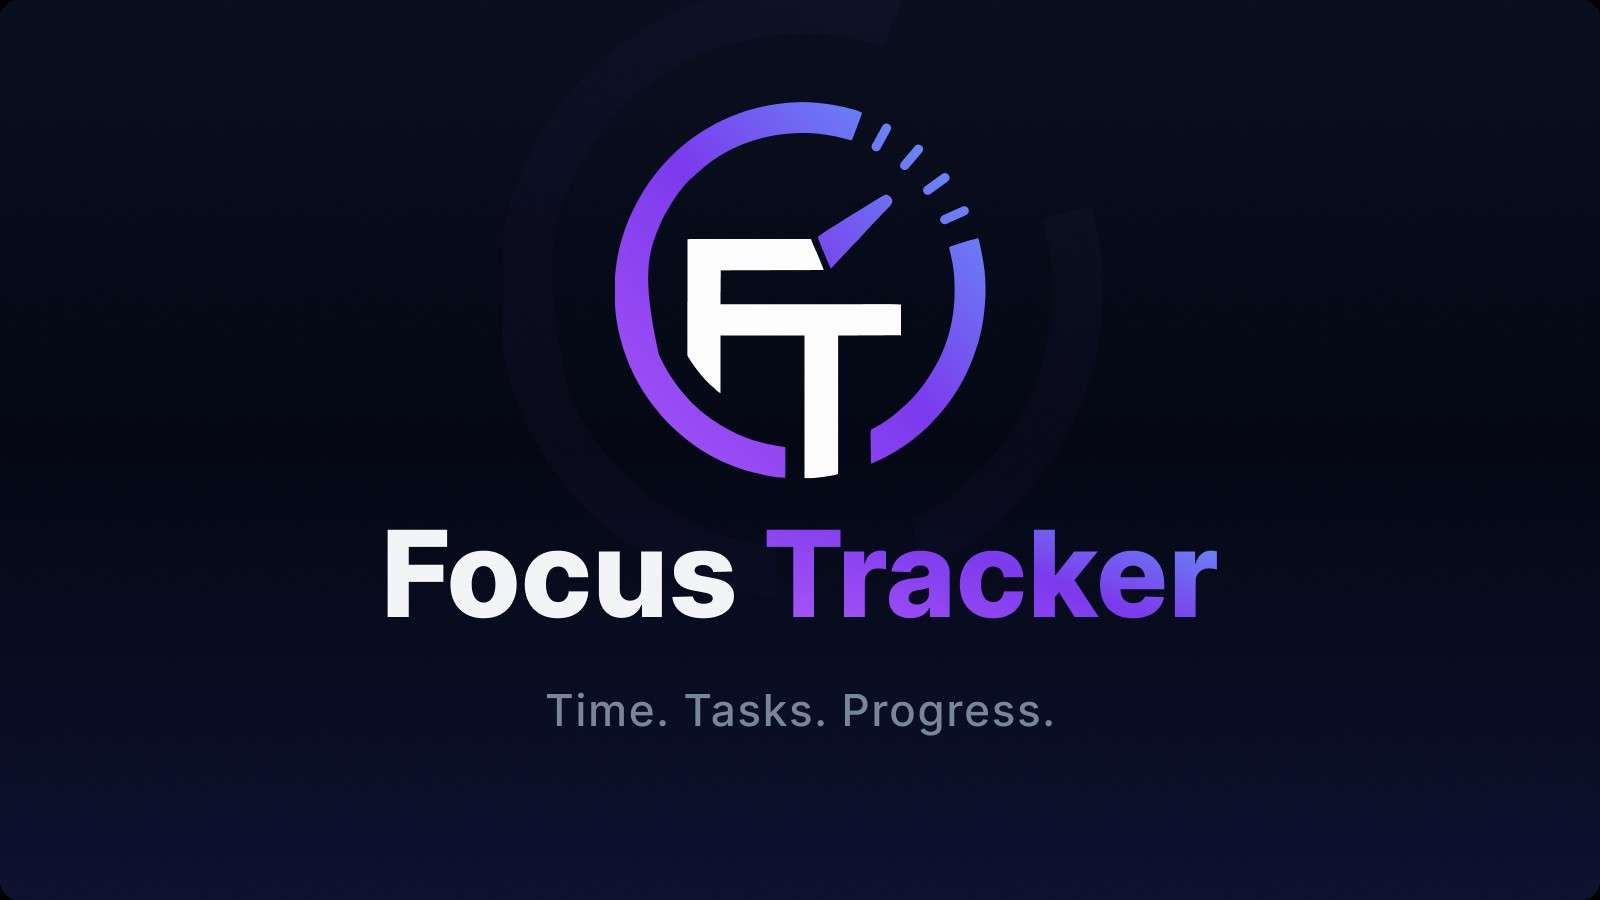
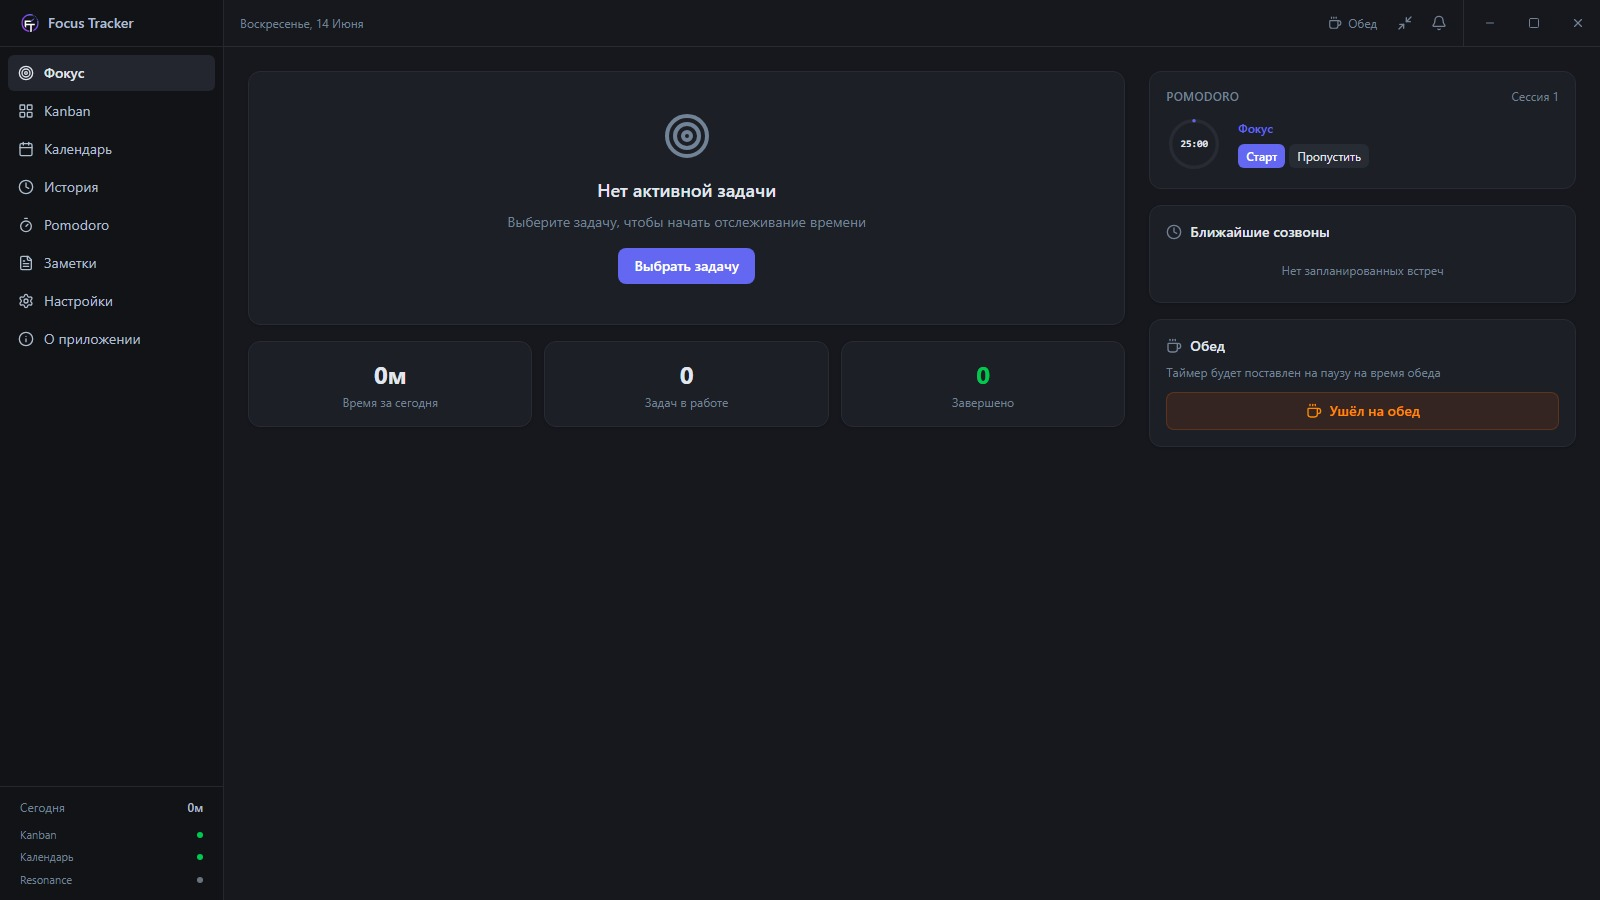
Auto-update latest fix

diff --git a/renderer/src/content/site.ts b/renderer/src/content/site.ts
@@ -1,4 +1,4 @@
-export const CURRENT_VERSION = "1.0.2";
+export const CURRENT_VERSION = "1.0.3";
 
 export const GITHUB_URL = "https://github.com/tatarinovi/Focus-Tracker";
 export const RELEASES_URL = "https://github.com/tatarinovi/Focus-Tracker/releases";
@@ -70,11 +70,18 @@ export const TECH_STACK = [
 
 export const CHANGELOG = [
   {
+    version: "1.0.3",
+    date: "2026-06-14",
+    changes: [
+      "Исправлены URL-ы файлов в манифесте автообновлений (точки вместо пробелов)",
+      "Добавлено логирование автообновлений в файл",
+    ],
+  },
+  {
     version: "1.0.2",
     date: "2026-06-14",
     changes: [
       "Исправлена совместимость ключей платформ в манифесте автообновлений",
-      "Добавлено логирование для диагностики автообновлений",
       "Изменён брендинг приложения",
     ],
   },

diff --git a/renderer/public/splash.html b/renderer/public/splash.html
@@ -47,9 +47,8 @@
       .logo {
         width: 48px;
         height: 48px;
-        border-radius: 12px;
         display: block;
-        box-shadow: 0 18px 48px rgba(91, 124, 250, 0.28);
+        filter: drop-shadow(0 18px 38px rgba(91, 124, 250, 0.28));
       }
 
       h1 {
@@ -133,7 +132,7 @@
   <body>
     <main class="shell">
       <section class="brand">
-        <img class="logo" src="logo-square-dark.svg" alt="" />
+        <img class="logo" src="logo-mark.svg" alt="" />
         <div>
           <h1>Focus Tracker</h1>
           <div class="subtitle">Готовим приложение к запуску</div>

diff --git a/renderer/src/App.tsx b/renderer/src/App.tsx
@@ -11,7 +11,7 @@ import { useState, useEffect, useCallback } from "react";
 const isTauri = typeof window !== 'undefined' && !!window.tauriRuntime?.isTauri;
 const drag = { WebkitAppRegion: 'drag' } as React.CSSProperties;
 const noDrag = { WebkitAppRegion: 'no-drag' } as React.CSSProperties;
-const appLogoSrc = "/logo-square-dark.svg";
+const appLogoSrc = "/logo-mark.svg";
 
 function useWindowMaximized() {
   const [isMaximized, setIsMaximized] = useState(false);
@@ -289,7 +289,7 @@ function Sidebar({ isNarrow, isOpen, onClose }: { isNarrow: boolean; isOpen: boo
       <div className="h-[47px] px-3 border-b border-sidebar-border flex items-center">
         <div className="flex items-center justify-between px-2 w-full">
           <div className="flex items-center gap-2">
-            <img src={appLogoSrc} alt="" className="w-5 h-5 rounded-[5px] flex-shrink-0" />
+            <img src={appLogoSrc} alt="" className="w-5 h-5 flex-shrink-0" />
             <span className="font-semibold text-sm text-sidebar-foreground">Focus Tracker</span>
           </div>
           {isNarrow && (

diff --git a/renderer/src/pages/AboutPage.tsx b/renderer/src/pages/AboutPage.tsx
@@ -117,9 +117,9 @@ export default function AboutPage() {
       <div className="bg-card border border-border rounded-xl p-6">
         <div className="flex items-center gap-4">
           <img
-            src="/logo-square-dark.svg"
+            src="/logo-mark.svg"
             alt=""
-            className="w-16 h-16 rounded-2xl shadow-lg"
+            className="w-16 h-16"
           />
           <div>
             <h1 className="text-xl font-bold">Focus Tracker</h1>

diff --git a/src-tauri/src/commands/updates.rs b/src-tauri/src/commands/updates.rs
@@ -2,6 +2,8 @@ use crate::commands::storage::run_storage_migrations_internal;
 use serde::Serialize;
 use serde_json::Value;
 use std::collections::HashSet;
+use std::fs::OpenOptions;
+use std::io::Write;
 use std::sync::Mutex;
 use std::time::Duration;
 use tauri::{AppHandle, Emitter, Manager, State};
@@ -13,6 +15,22 @@ const DEV_SPLASH_DELAY: Duration = Duration::from_millis(450);
 const STARTUP_NOTICE_DELAY: Duration = Duration::from_millis(1200);
 const STABLE_ENDPOINT: &str = "https://tatarinovi.github.io/Focus-Tracker/updates/stable.json";
 const BETA_ENDPOINT: &str = "https://tatarinovi.github.io/Focus-Tracker/updates/beta.json";
+
+fn log_update(msg: &str) {
+    let path = std::env::temp_dir().join("focus-tracker-updater.log");
+    if let Ok(mut f) = OpenOptions::new().create(true).append(true).open(&path) {
+        let _ = writeln!(f, "[{}] {msg}", chrono_wrapper());
+    }
+}
+
+fn chrono_wrapper() -> String {
+    use std::time::{SystemTime, UNIX_EPOCH};
+    let secs = SystemTime::now()
+        .duration_since(UNIX_EPOCH)
+        .unwrap_or_default()
+        .as_secs();
+    format!("{secs}")
+}
 
 #[derive(Default)]
 pub struct UpdaterState {
@@ -94,15 +112,24 @@ async fn updater_for_channel(
 }
 
 async fn check_update_inner(app: &AppHandle, channel: &str) -> Result<UpdateCheck, String> {
+    log_update(&format!("check_update_inner: channel={channel}"));
     let updater = updater_for_channel(app, channel).await?;
-    let update = updater.check().await.map_err(|e| e.to_string())?;
+    log_update("check_update_inner: updater built, calling check()");
+    let update = updater.check().await.map_err(|e| {
+        log_update(&format!("check_update_inner: check() failed: {e}"));
+        e.to_string()
+    })?;
 
+    log_update(&format!("check_update_inner: check() returned Some={}", update.is_some()));
     Ok(match update {
-        Some(update) => UpdateCheck {
-            has_update: true,
-            version: Some(update.version.to_string()),
-            notes: update.body.clone(),
-        },
+        Some(update) => {
+            log_update(&format!("check_update_inner: found version={}", update.version));
+            UpdateCheck {
+                has_update: true,
+                version: Some(update.version.to_string()),
+                notes: update.body.clone(),
+            }
+        }
         None => UpdateCheck {
             has_update: false,
             version: None,
@@ -121,7 +148,7 @@ async fn install_update_inner(
     let check = match check_result {
         Ok(Ok(check)) => check,
         Ok(Err(error)) => {
-            eprintln!("[updater] check_update_inner failed: {error}");
+            log_update(&format!("check_update_inner failed: {error}"));
             return Err(error);
         }
         Err(_) => return Err("timeout: check".to_string()),
@@ -158,18 +185,18 @@ async fn install_update_inner(
     }
 
     let updater = updater_for_channel(app, channel).await.map_err(|e| {
-        eprintln!("[updater] updater_for_channel failed: {e}");
+        log_update(&format!("updater_for_channel failed: {e}"));
         e
     })?;
     let update = updater
         .check()
         .await
         .map_err(|e| {
-            eprintln!("[updater] second check() failed: {e}");
+            log_update(&format!("second check() failed: {e}"));
             e.to_string()
         })?
         .ok_or_else(|| {
-            eprintln!("[updater] second check() returned None");
+            log_update("second check() returned None");
             "Update is no longer available".to_string()
         })?;
 
@@ -290,16 +317,21 @@ pub async fn check_updates(app: AppHandle, channel: String) -> Result<Value, Str
     }
 
     let channel = normalize_channel(Some(channel));
+    log_update(&format!("check_updates called, channel={channel}, current={}", env!("CARGO_PKG_VERSION")));
     emit_status(&app, "checking", "Проверяем наличие обновлений...", None);
     match tokio::time::timeout(CHECK_TIMEOUT, check_update_inner(&app, &channel)).await {
-        Ok(Ok(check)) => Ok(serde_json::json!({
-            "success": true,
-            "hasUpdate": check.has_update,
-            "current": env!("CARGO_PKG_VERSION"),
-            "version": check.version,
-            "releaseNotes": check.notes
-        })),
+        Ok(Ok(check)) => {
+            log_update(&format!("check_updates result: hasUpdate={}, version={:?}", check.has_update, check.version));
+            Ok(serde_json::json!({
+                "success": true,
+                "hasUpdate": check.has_update,
+                "current": env!("CARGO_PKG_VERSION"),
+                "version": check.version,
+                "releaseNotes": check.notes
+            }))
+        }
         Ok(Err(error)) => {
+            log_update(&format!("check_updates error: {error}"));
             emit_status(&app, "error", "Не удалось проверить обновления.", None);
             Ok(serde_json::json!({
                 "success": false,
@@ -389,6 +421,7 @@ pub async fn startup_flow(
     }
 
     let channel = normalize_channel(channel);
+    log_update(&format!("startup_flow: channel={channel}, current={}", env!("CARGO_PKG_VERSION")));
     match install_update_inner(&app, &channel, &state).await {
         Ok(result) => {
             if result
@@ -402,7 +435,7 @@ pub async fn startup_flow(
             }
         }
         Err(error) => {
-            eprintln!("[updater] startup_flow install_update_inner error: {error}");
+            log_update(&format!("startup_flow error: {error}"));
             if error == "timeout: check" {
                 emit_status(
                     &app,